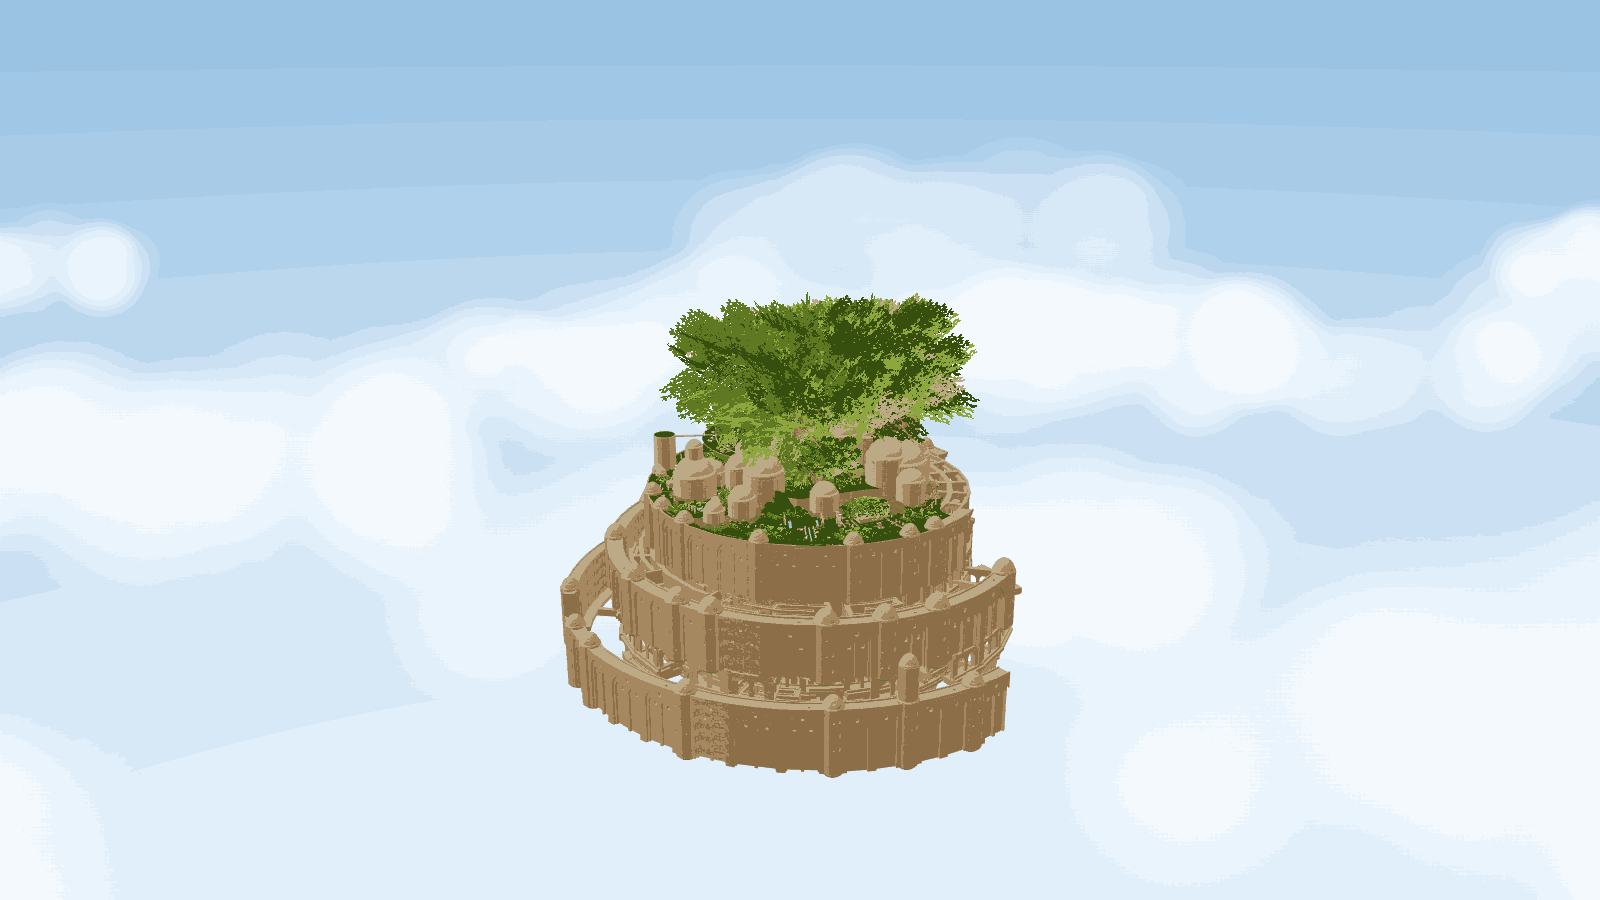
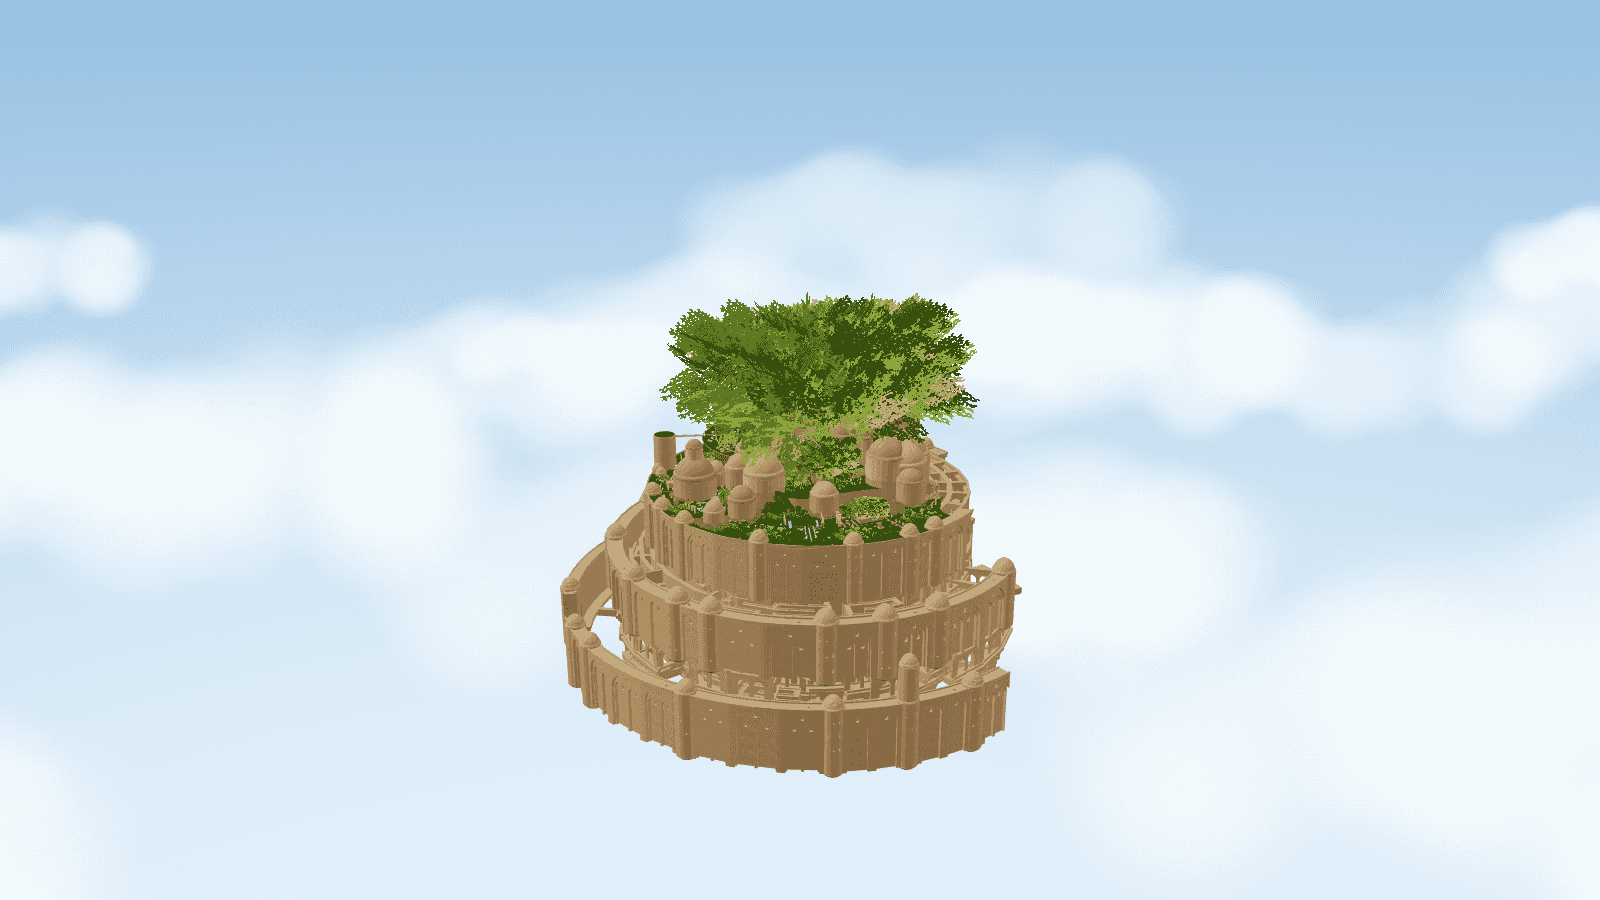
lab: update laputa-skyward

Changed region(s): [[0.5, 0.4667, 0.5938, 0.56], [0.4062, 0.4667, 0.5, 0.5911]]

diff --git a/lab/sketches/laputa-skyward.html b/lab/sketches/laputa-skyward.html
@@ -48,7 +48,7 @@ function resize(){renderer.setPixelRatio(Math.min(devicePixelRatio||1,pixelLimit
 function setHome(){const fov=THREE.MathUtils.degToRad(camera.fov),lim=Math.min(fov,2*Math.atan(Math.tan(fov/2)*camera.aspect)),distance=radius/Math.sin(lim/2)*.76;homePosition.copy(homeTarget).add(new THREE.Vector3(1,.48,1).normalize().multiplyScalar(distance));controls.maxDistance=distance*2;}
 function home(){const damping=controls.enableDamping;controls.enableDamping=false;controls.update();controls.target.copy(homeTarget);camera.position.copy(homePosition);controls.update();controls.enableDamping=damping;invalidate();}
 const loader=new THREE.GLTFLoader();loader.setMeshoptDecoder(MeshoptDecoder);
-loader.load('../../assets/models/lab/'+(mobileMode?'laputa-mobile.glb':'laputa-desktop.glb')+'?v=uv-memory-3',g=>{model=g.scene;model.traverse(o=>{if(o.isMesh){const materials=Array.isArray(o.material)?o.material:[o.material];for(const m of materials){if(m.userData.webFlatShading)m.flatShading=true;}}});const box=new THREE.Box3().setFromObject(model),sphere=box.getBoundingSphere(new THREE.Sphere());radius=sphere.radius;homeTarget.copy(sphere.center);scene.add(model);camera.near=radius/1500;camera.far=radius*80;camera.updateProjectionMatrix();controls.minDistance=radius*.12;loaded=true;document.querySelector('#home').disabled=false;setHome();home();createAtmosphere();intro=!reduced.matches;introTime=0;controls.enabled=!intro;skip.hidden=!intro;status.hidden=true;stats.ready=true;syncMotion();stats.meshes=0;model.traverse(o=>{if(o.isMesh)stats.meshes++;});},e=>{if(e.lengthComputable){progress.max=e.total;progress.value=e.loaded;message.textContent='라퓨타를 불러오는 중 · '+Math.round(e.loaded/e.total*100)+'%';}},()=>{fail('모델을 불러오지 못했습니다. 네트워크 연결을 확인한 후 다시 열어주세요.');});
+loader.load('../../assets/models/lab/'+(mobileMode?'laputa-mobile.glb':'laputa-desktop.glb')+'?v=reference-colors-4',g=>{model=g.scene;model.traverse(o=>{if(o.isMesh){const materials=Array.isArray(o.material)?o.material:[o.material];for(const m of materials){if(m.userData.webFlatShading)m.flatShading=true;}}});const box=new THREE.Box3().setFromObject(model),sphere=box.getBoundingSphere(new THREE.Sphere());radius=sphere.radius;homeTarget.copy(sphere.center);scene.add(model);camera.near=radius/1500;camera.far=radius*80;camera.updateProjectionMatrix();controls.minDistance=radius*.12;loaded=true;document.querySelector('#home').disabled=false;setHome();home();createAtmosphere();intro=!reduced.matches;introTime=0;controls.enabled=!intro;skip.hidden=!intro;status.hidden=true;stats.ready=true;syncMotion();stats.meshes=0;model.traverse(o=>{if(o.isMesh)stats.meshes++;});},e=>{if(e.lengthComputable){progress.max=e.total;progress.value=e.loaded;message.textContent='라퓨타를 불러오는 중 · '+Math.round(e.loaded/e.total*100)+'%';}},()=>{fail('모델을 불러오지 못했습니다. 네트워크 연결을 확인한 후 다시 열어주세요.');});
 const raycaster=new THREE.Raycaster(),pointer=new THREE.Vector2();canvas.addEventListener('dblclick',e=>{if(!model||intro)return;const rect=canvas.getBoundingClientRect();pointer.set((e.clientX-rect.left)/rect.width*2-1,-(e.clientY-rect.top)/rect.height*2+1);raycaster.setFromCamera(pointer,camera);const hit=raycaster.intersectObject(model,true)[0];if(!hit)return;const direction=camera.position.clone().sub(hit.point).normalize();controls.target.copy(hit.point);camera.position.copy(hit.point).addScaledVector(direction,radius*.65);controls.update();invalidate();});
 canvas.addEventListener('keydown',e=>{if(!loaded)return;if(intro){if(e.key==='Escape'||e.key.toLowerCase()==='h'){e.preventDefault();finishIntro();}return;}const offset=camera.position.clone().sub(controls.target),s=new THREE.Spherical().setFromVector3(offset);if(e.key.toLowerCase()==='h'){e.preventDefault();home();return;}if(e.key==='ArrowLeft')s.theta-=.08;else if(e.key==='ArrowRight')s.theta+=.08;else if(e.key==='ArrowUp')s.phi-=.06;else if(e.key==='ArrowDown')s.phi+=.06;else if(e.key==='+'||e.key==='=')s.radius*=.9;else if(e.key==='-')s.radius*=1.1;else return;e.preventDefault();s.phi=THREE.MathUtils.clamp(s.phi,controls.minPolarAngle,controls.maxPolarAngle);s.radius=THREE.MathUtils.clamp(s.radius,controls.minDistance,controls.maxDistance);camera.position.copy(controls.target).add(new THREE.Vector3().setFromSpherical(s));controls.update();invalidate();});
 canvas.addEventListener('auxclick',e=>{if(e.button===1)e.preventDefault();});canvas.addEventListener('pointerdown',()=>canvas.focus());canvas.addEventListener('webglcontextlost',e=>{e.preventDefault();contextLost=true;cancelAnimationFrame(frame);frame=0;fail('그래픽 연결이 중단되었습니다. 복구를 기다리거나 뷰어에서 RESTART를 눌러주세요.');});canvas.addEventListener('webglcontextrestored',()=>{contextLost=false;if(loaded)status.hidden=true;invalidate();});

diff --git a/lab/sketches/making/laputa-skyward.md b/lab/sketches/making/laputa-skyward.md
@@ -82,3 +82,15 @@
 - 터치 중심 기기, 초기 폭 800px 이하, 메모리 정보가 4GB 이하인 기기는 모바일 모델 하나만 불러옵니다. 모바일 DPR은 1.25로 제한하고 안티앨리어싱을 끕니다. Skyward 모바일 구름은 26개로 줄였습니다.
 - 실제 휴대폰의 종료 원인은 기기에서 직접 재현하지 못했습니다. 위 경량화로 메모리 부담을 낮췄지만 해당 기기에서 재확인이 필요합니다.
 - 비교 렌더링과 확대 화면에서 벽면 음영과 흰 건물의 분리를 확인했습니다. 헤드리스 Chrome의 데스크톱 및 모바일 에뮬레이션에서 약 60fps였고 JavaScript·콘솔 오류는 0개였습니다.
+
+
+## 참고 이미지에 따른 건물 색상 보정 · 2026-09-21
+
+> 일단 하나만 선택하니까 그 색으로 안나오고 그냥 갈색으로 나오네. 원래는 흰색이어야 하는데. 아니면 너가 직접 컬러를 내가 준 이미지처럼 바꿔주면 안되나
+
+- 사용자가 제공한 image 65.png, image 66.png를 기준으로 상단 건물 몸체는 흰 벽돌, *6 재질의 돔은 살구색으로 분리했습니다. *4 탑 구조는 원본 황토색 돌로 되돌려 주변 성벽과 구분을 유지했습니다.
+- 원본 laputa2.glb에서 재질을 지정한 후 기존 데스크톱·모바일 경량화 과정을 다시 적용했습니다. 원본 파일은 수정하지 않았습니다. 흰 벽돌 텍스처를 공유하고 돔에 색상 계수를 적용해 추가 텍스처 메모리를 사용하지 않습니다.
+- 데스크톱 모델은 30,783,204바이트, 1,380,730삼각형이며 모바일 모델은 12,846,236바이트, 738,238삼각형입니다.
+- 두 스케치의 헤드리스 Chrome 1280×800 실행에서 약 60fps를 측정했고 콘솔 오류는 0개였습니다. Skyward 모바일 에뮬레이션에서도 약 60fps였고 DPR 1.25를 확인했습니다. 실제 모바일 기기 성능 측정은 아닙니다.
+- 카드와 커버는 보정한 모델을 실제 실행하고 UI를 숨긴 화면으로 갱신했습니다. 사이트 공용 디자인은 변경하지 않았습니다.
+- Blender 재질 노드의 복원이 아닌 이미지에 근거한 색상 근사입니다. 원본과 웹의 조명 차이 및 원래 흰 벽돌 텍스처의 회색 성분 때문에 밝기가 정확히 일치하지는 않습니다.
